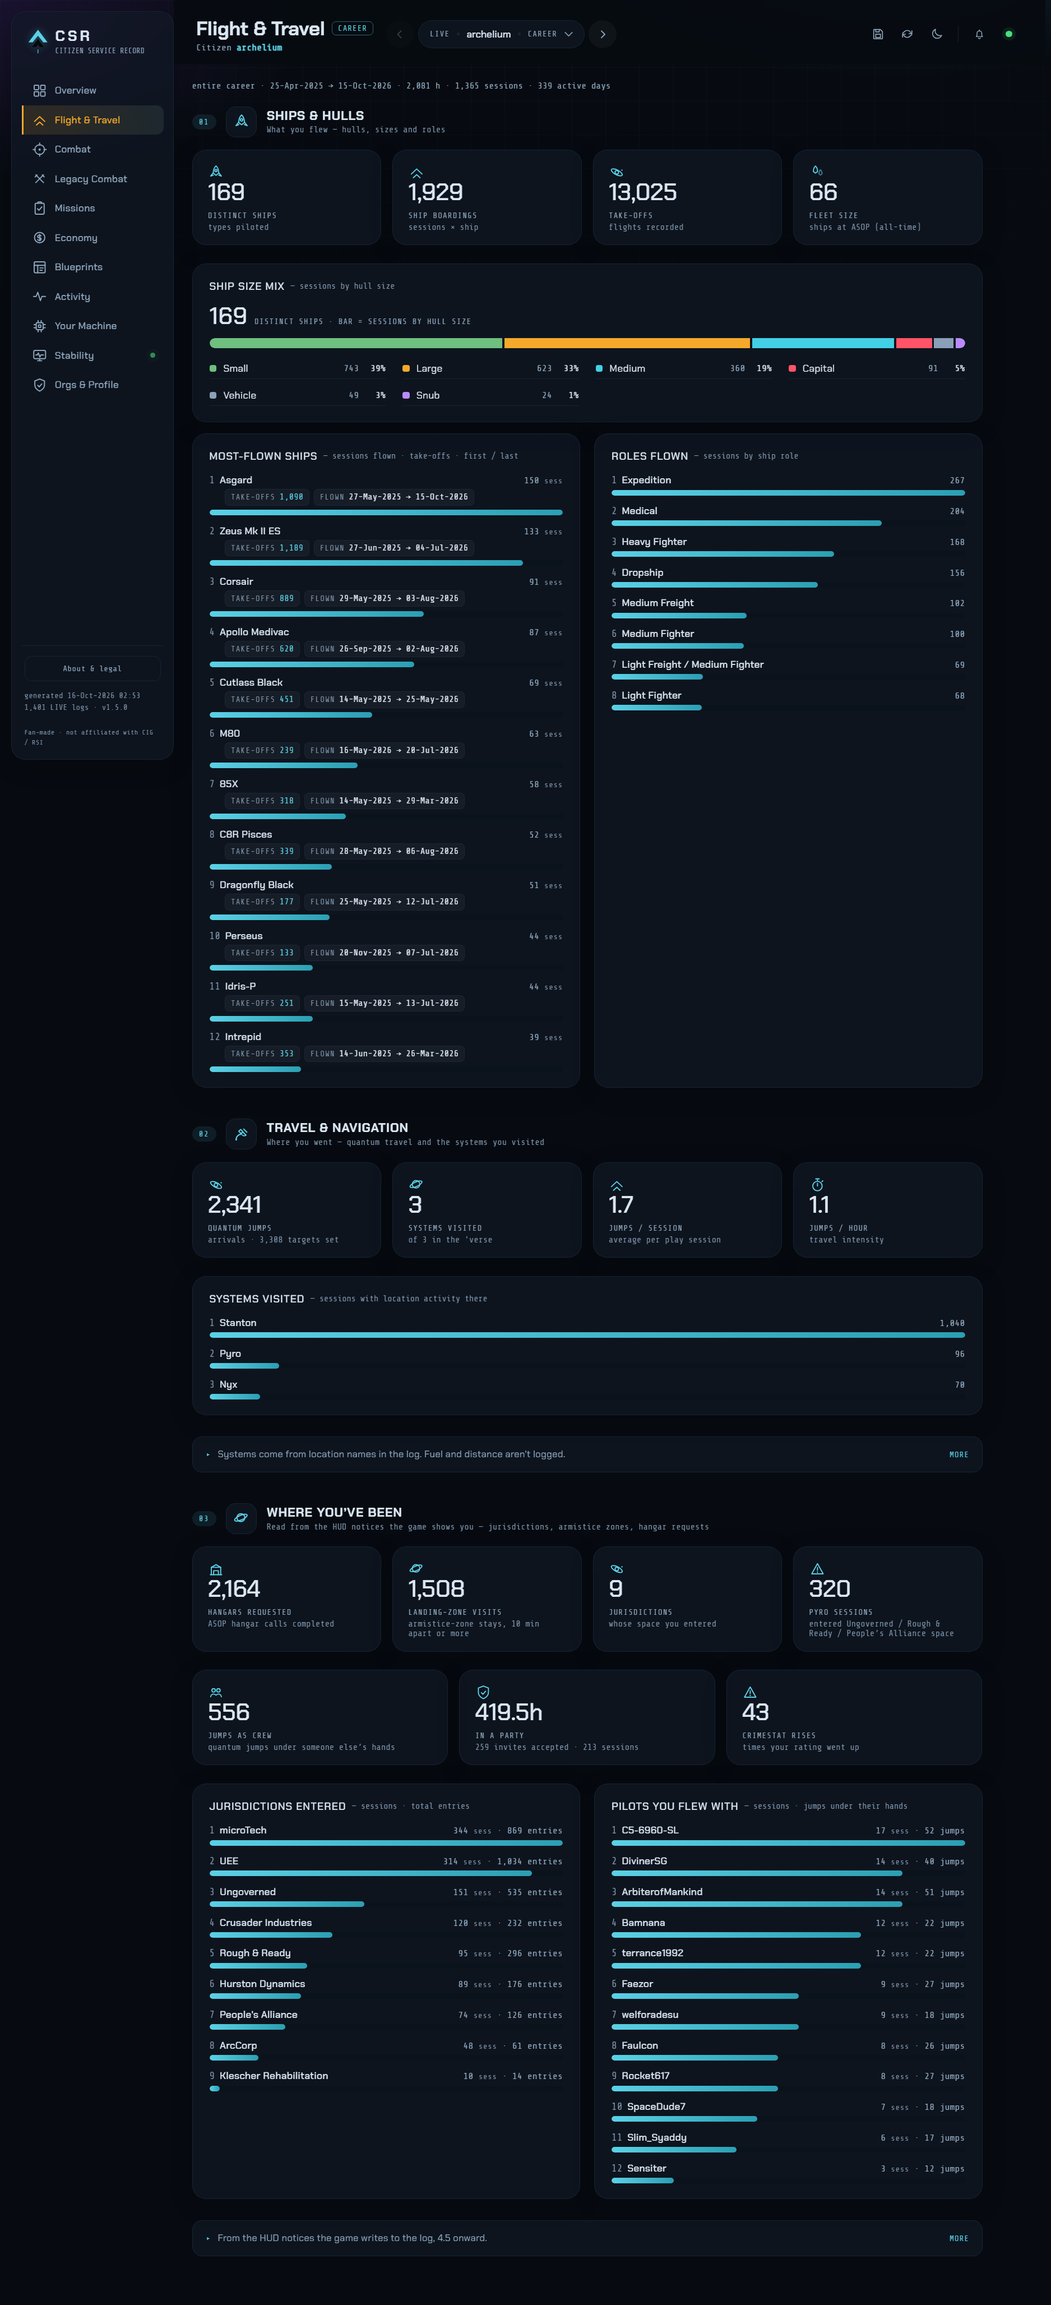
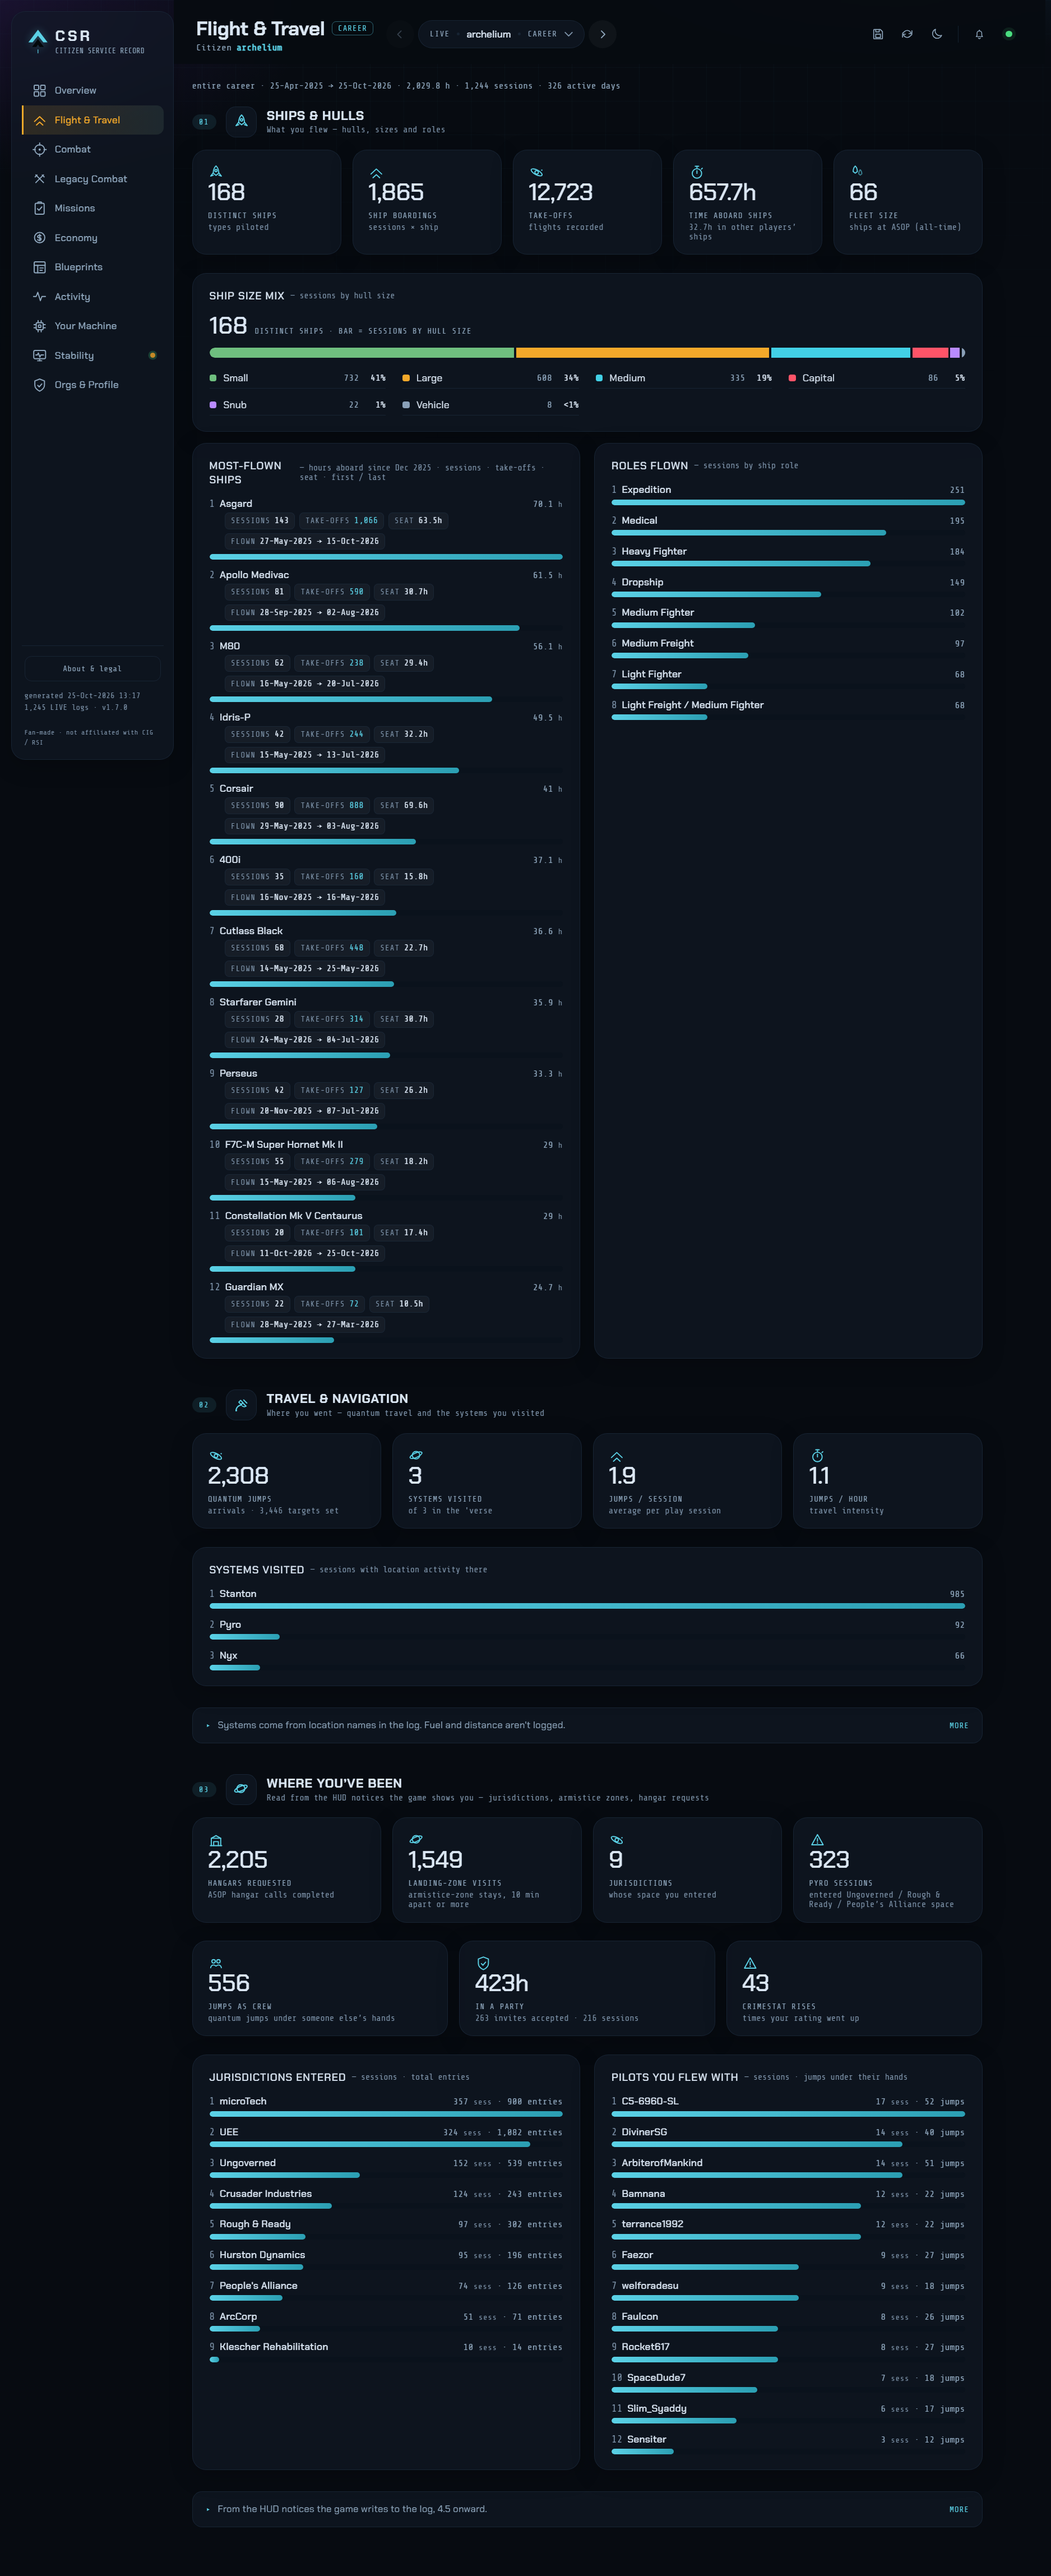
docs: README and screenshots for 1.7.0
Retake all five screenshots on 1.7.0. Cover the 1.5.2 and 1.6.0 features the
README never picked up: crash context and crash loops, servers, gear lost on
death, lost your player. Fix the upgrade table version, the exe size and the
patch coverage date.

diff --git a/README.md b/README.md
@@ -7,7 +7,7 @@ broken down by patch and by account.
 
 Pure Python **standard library** (no pip installs to run from source).
 
-**Patch coverage — tested on 4.1 → 4.10** (September 2026; 4.10 from its first LIVE sessions — the changelog lists what is still unconfirmed there). CSR reads the version out of each
+**Patch coverage — tested on 4.1 → 4.10** (October 2026). CSR reads the version out of each
 log rather than working from a fixed list, so **older patches will often work too**, and
 newer ones should. Neither is tested: Star Citizen changes its log format between
 builds, so expect gaps or misparsed figures outside that range — and please
@@ -31,10 +31,13 @@ pieces to go, so you can see which set is one drop from complete — ship weapon
 
 ### Stability
 
-Crashes named in the game's own words, a full crash history, and **returns to the main
+Crashes named in the game's own words, split into ones you can fix and Star Citizen
+bugs. Each crash row says what you were doing, where, and how long you'd been in.
+Repeats of the same bug fold into one *crash loop* row. Also **returns to the main
 menu mid-session** — the "it booted me for no reason" moment, which Star Citizen records
 as *you* asking to disconnect, and which nothing else counts. Since the 2026 builds a
-deliberate *Exit to menu* leaves the same trace, so CSR counts both and says so.
+deliberate *Exit to menu* leaves the same trace, so CSR counts both and says so. And the
+servers you joined: region, distinct servers, and hops between them.
 
 ![Stability — crash analysis and returns to the main menu](docs/img/stability.png)
 
@@ -102,12 +105,12 @@ CSR is portable, so updating is just **replace the exe**:
 keeps sessions Star Citizen has since deleted from your log folder. If you want a
 belt-and-braces backup first, open CSR and use **💾 Backup & transfer → Export**.
 
-What happens on your first run of v1.5.1, depending on where you're coming from:
+What happens on your first run of v1.7.0, depending on where you're coming from:
 
 | Coming from | What to expect |
 |---|---|
 | **v1.0.0** | v1.0.0 kept no archive, so your history is rebuilt from whatever logs you still have. If your saved folder was `…\StarCitizen\LIVE`, CSR now finds `PTU` and `TECH-PREVIEW` beside it on its own — **no need to re-pick a folder** — and a **Channel** dropdown appears if it finds any. |
-| **v1.1.0 – v1.5.0** | Your archive carries over untouched. |
+| **v1.1.0 – v1.6.0** | Your archive carries over untouched. |
 | **any** | The first scan re-reads **every** log (a minute or so). This is deliberate: each release fixes parsing bugs or extracts new data, so nothing older is trusted. It happens once — after that CSR starts, and refreshes, in about a second. |
 
 Coming from **v1.2.0** specifically, the first run also *moves* some existing numbers,
@@ -156,7 +159,8 @@ Patch* to filter to that patch (and *↩ View career* to reset).
   *travel & navigation* (quantum jumps, jumps per session/hour, systems visited)
 - **Combat** — *ship combat* (how you lost ships), *FPS combat* (loadout ranked by
   how often each weapon was drawn, plus reloads and carry), *injuries & treatment*
-  (what hurt you, med-bed surgeries, hospital vs ship medbay), and *looting & inventory*
+  (what hurt you, med-bed surgeries, hospital vs ship medbay), *gear lost on death*
+  (items and guns lost, what you lose most often), and *looting & inventory*
   (containers looted, items transferred, corpse loots)
 - **Legacy Combat** — real PvP/PvE kills & K/D from patches 4.1–4.3 (PU vs Arena
   Commander toggle) — the only builds that still logged combat client-side
@@ -171,17 +175,24 @@ Patch* to filter to that patch (and *↩ View career* to reset).
   card**
 - **Stability** — everything that goes wrong, with a **live dot in the sidebar** that
   pulses while CSR is tailing your logs:
-  - **Crash analysis** naming the fault in the game's own words, **every crash listed**
-    (paged, newest first, with times), and a **Copy a bug report** button that formats
-    build, exception, crash digest, memory and rig for an Issue Council filing
+  - **Crash analysis** naming the fault in the game's own words, split into faults you
+    can fix and Star Citizen bugs. **Every crash listed** (paged, newest first) with what
+    you were doing, where, and how long you'd been in. The same bug crashing again within
+    30 minutes is one *crash loop* row. A **Copy a bug report** button formats build,
+    exception, crash digest, memory, rig and the last errors for an Issue Council filing
+  - **Lost your player** — the soft crash where the game keeps running but you have no
+    body and the starmap won't plot a route. Counted per episode, with a rate per 10 hours
+    and a monthly trend
   - **Back to the main menu** — the "it just booted me for no reason" moment, counted
     for the first time. Star Citizen logs it as *you* asking to disconnect, which is why
     nothing has ever counted it. Since the 2026 builds a deliberate *Exit to menu* looks
     identical in the log, so the figure includes both, is labelled that way, and is
     reported as a rate per 10 hours played with a by-month trend
   - How your sessions **ended**, per patch
+  - **Servers** — your main region, joins by region, distinct servers joined, and server
+    hops (a different server in the same session) per patch
 - **Live crash alerts** — while CSR is running it watches your log and pops an alert on
-  the dashboard within seconds of a crash or a genuine disconnect, saying what broke and
+  the dashboard within seconds of a crash, a lost player or a genuine disconnect, saying what broke and
   whether it was your PC or CIG's servers. Routine disconnect chatter is filtered out.
   A **🔔 bell in the top bar** carries a badge and keeps every alert raised while the page
   has been open; *Stability → Live monitoring* shows the watcher's status lights. CSR also checks whether
@@ -250,7 +261,7 @@ Citizen is running, and **one click restores the original**.
 build_exe.bat          # installs PyInstaller if needed, then builds dist\CSR.exe
 ```
 or manually: `python -m PyInstaller csr.spec --noconfirm`. The one-file exe
-(~8 MB) bundles the game-data caches; share that single file. To give it an icon,
+(~9 MB) bundles the game-data caches; share that single file. To give it an icon,
 drop a `csr.ico` next to `csr.spec` and rebuild.
 
 ---
